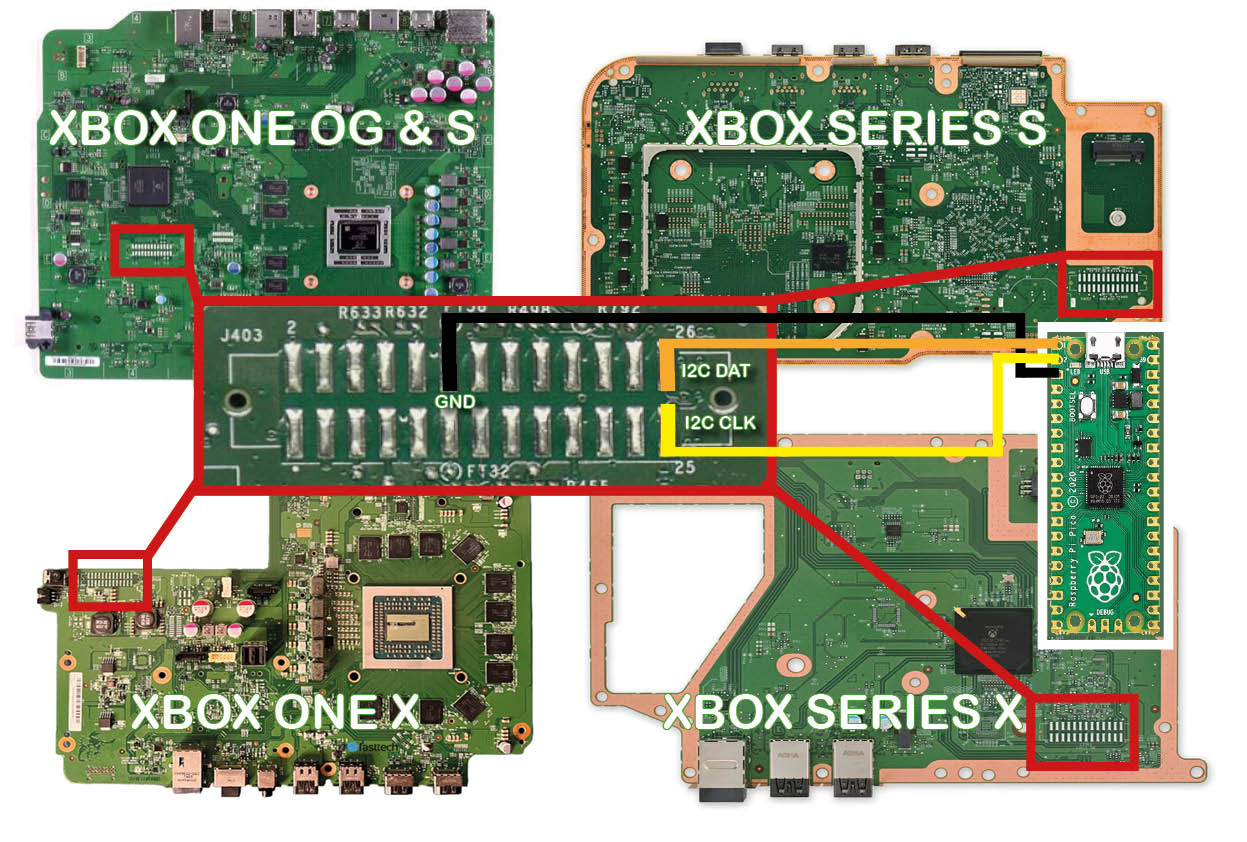
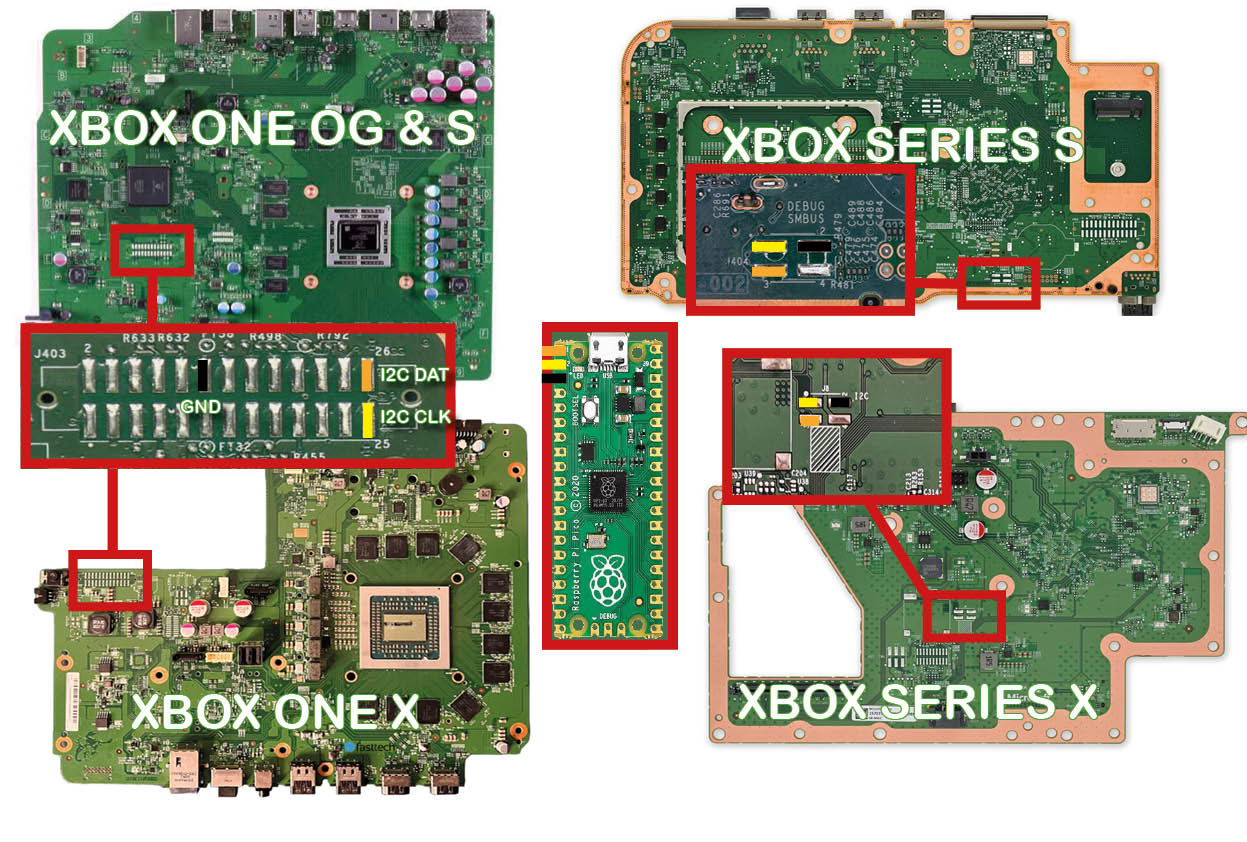
docs: Update diagram and Series-notes, thx a lot @ACE-AU

diff --git a/README.md b/README.md
@@ -24,14 +24,16 @@ and @ACE Console Repairs
 
 ## Supported consoles
 
+Via FACET connector
+
 - ✅ Xbox One PHAT
 - ✅ Xbox One S
 - ✅ Xbox One X
 
-Additional infos in preparation, but generally also supported:
+Via AARDVARK connector
 
-- ⚠ Xbox Series S
-- ⚠ Xbox Series X
+- ✅ Xbox Series S
+- ✅ Xbox Series X
 
 ## Connections
 
@@ -43,19 +45,19 @@ Additional infos in preparation, but generally also supported:
 > FACET connector orientation DOES CHANGE between console revisions!
 
 > [!IMPORTANT]
-> Xbox Series S / X require additional components to be populated, to activate I2C over FACET. More infos on that will follow!
+> Xbox Series S / X require additional components to be populated, to activate I2C over FACET. AARDVARK port works as-is.
 
-Pi Pico -> FACET
+Pi Pico -> FACET / AARDVARK
 
-- SDA: Pi Pico **Pin 1** (GP0) -> FACET **Pin 26**
-- SCL: Pi Pico **Pin 2** (GP1) -> FACET **Pin 25**
+- SDA: Pi Pico **Pin 1** (GP0) -> FACET **Pin 26** (AARDVARK, SMBUS_DATA on Series S/X)
+- SCL: Pi Pico **Pin 2** (GP1) -> FACET **Pin 25** (AARDVARK, SMBUS_CLK on Series S/X)
 - GND -> GND
 
 ![Pi Pico Facet I2C connection diagram](./assets/connection_diagram.png)
 
 ![Pi Pico Facet I2C diagram - all revs](./assets/all_revs_diagram_ACE.jpg)
 
-Thx to @ACE Console Repairs for the diagram
+Thx to [@ACE-AU](https://github.com/ACE-AU) for the diagram
 
 ### Optional: 0.91" OLED Display (SSD1306)
 
